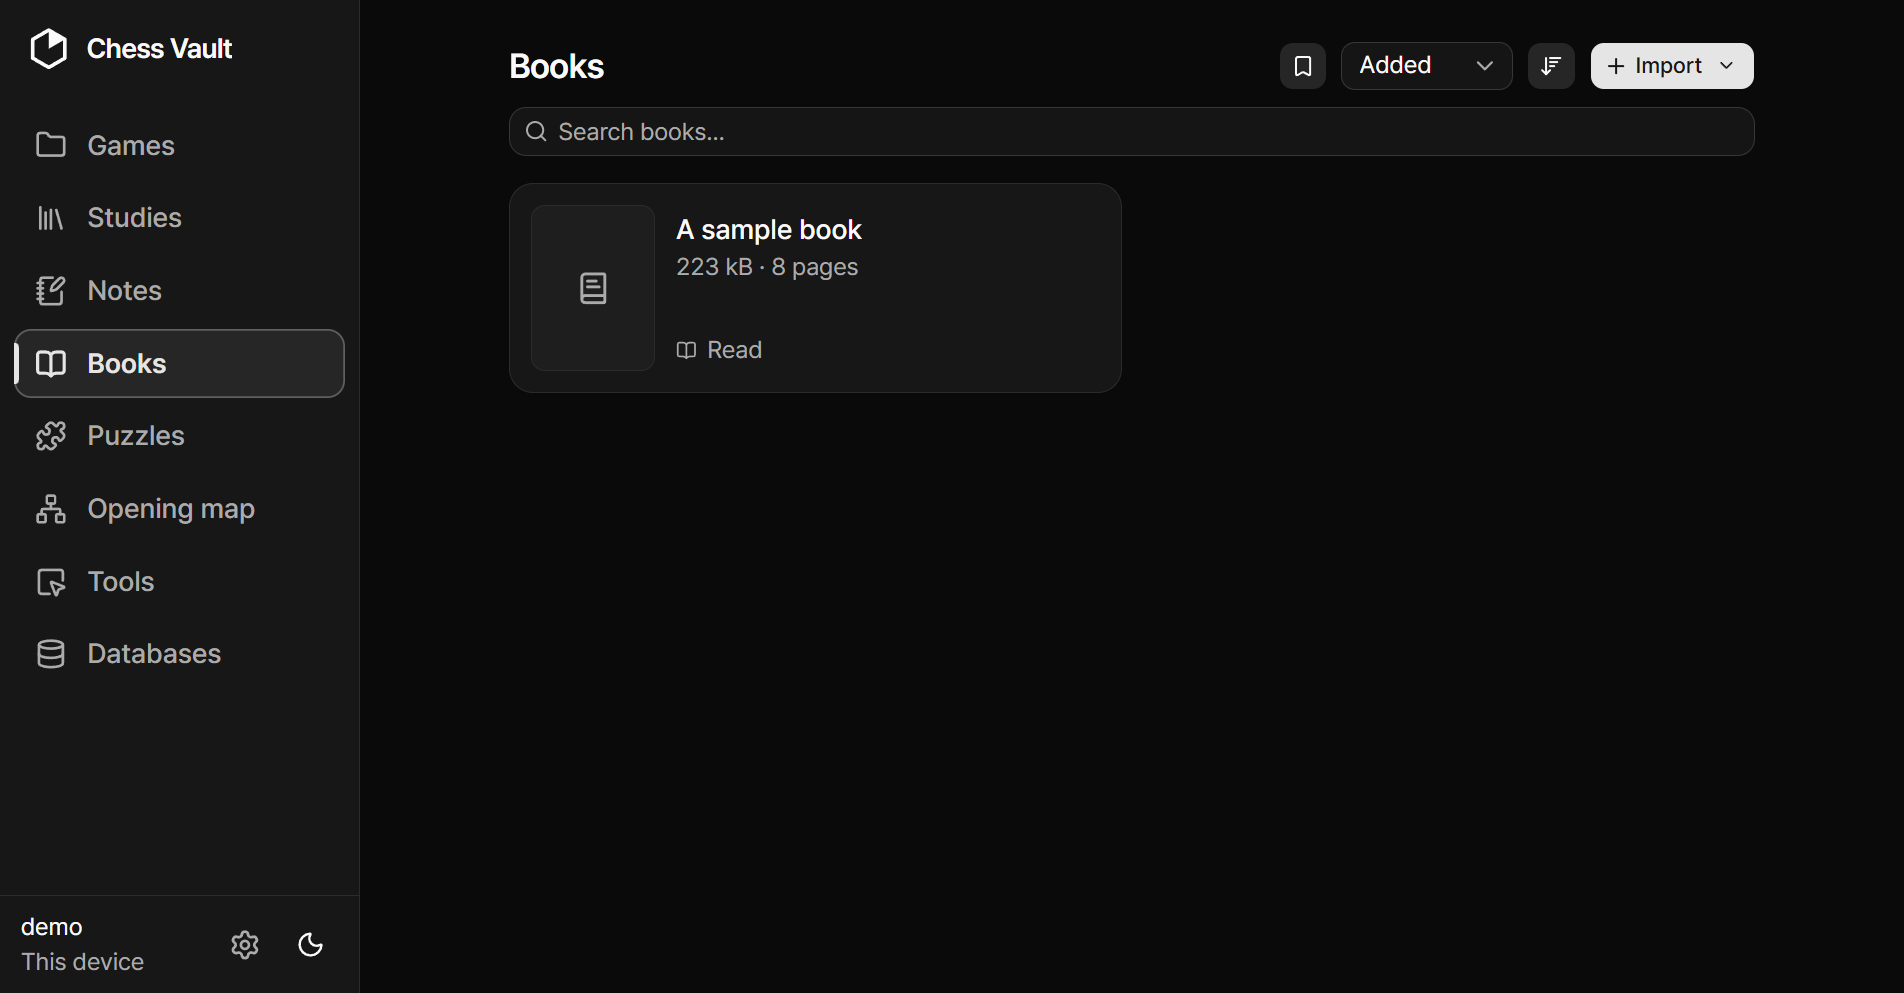
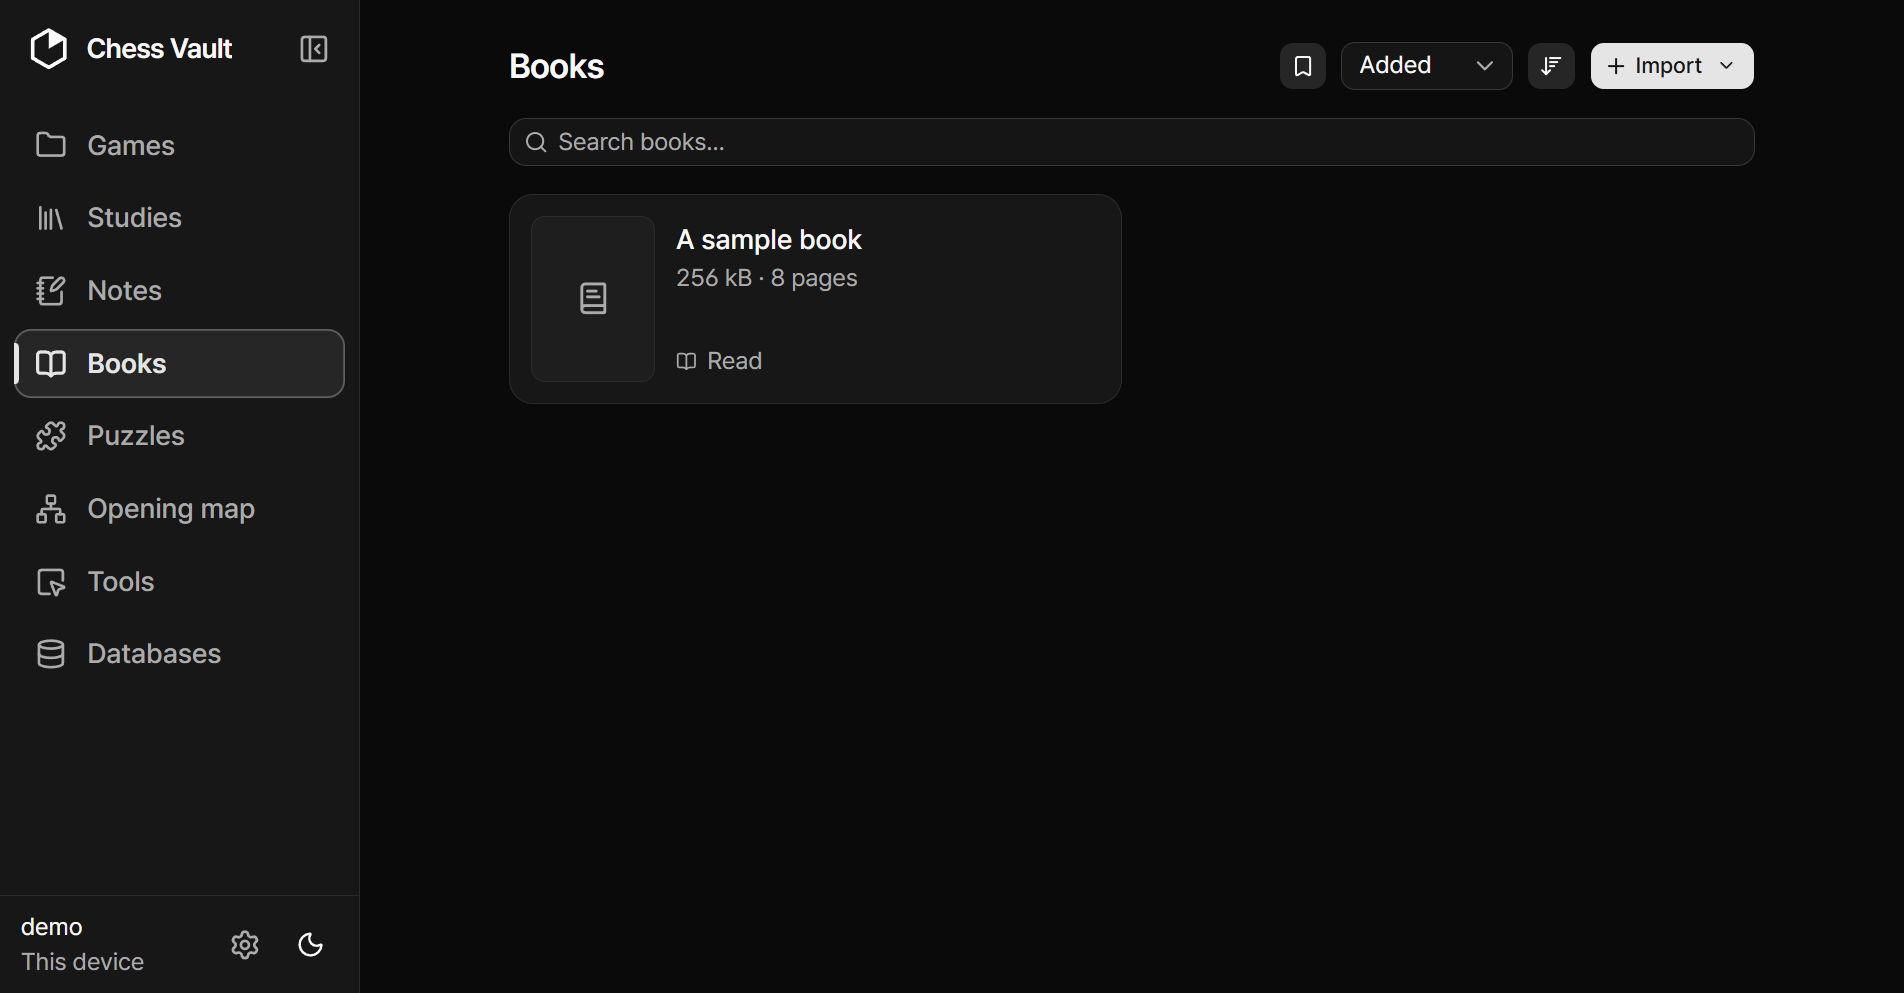
Cut 0.8.2
The update log's Unreleased heading becomes 0.8.2 with a lede that
leads with the note page, since 0.8.0 and 0.8.1 both shipped it
broken. Nothing landed unlogged: every commit since v0.8.1 has its
entry, seventeen in all. The manual already carries the title bar's
menu, the fold switch, the motif and material controls and the
reader's Contents button, and check:repo holds every quote to the
source.

Screenshots recaptured twice against one build and compared three
ways: board, books, editor, explorer and repertoire moved 3 to 5%
against a 0.00 to 0.07% run-to-run difference (the fold switch and
the shelves), the map's node shot lost 8px of height (the one gap
under every title), and games, study, workspace and the dashboard
moved 0.02 to 0.03% at 0.00 (the fold switch alone); all of those
are the fresh capture. The opening map moved 10% at an 8% noise floor
and the trainer 4% at 5%, so both keep their committed bytes. The gif
is re-recorded and shows the reader's Contents button. Contrast:
nothing below the floor over 11 routes, 4 schemes and 2 widths.

Licence inventory checked: package.json unchanged since 0.8.1, 162
packages against the row's ~160, nothing copied in.

diff --git a/docs/update-log.ko.md b/docs/update-log.ko.md
@@ -5,7 +5,17 @@
 무엇이 바뀌었는지 최신순으로 적었습니다. 커밋 장부가 아니라 기능 단위의
 기록이며, 자세한 내용은 `git log`에 있습니다.
 
-## Unreleased
+## 0.8.2
+
+노트가 다시 열립니다. 0.8.0부터 어떤 노트 페이지를 열어도 «Something
+went wrong»이 떴고 노트는 그 밑에서 저장되어 있었는데, 빌드가 편집기의
+라이브러리 하나를 편집기와 떼어 놓았기 때문입니다. 그 수정 주변으로
+데이터베이스 브라우저의 검색에 목록이 생깁니다. 고립 퀸폰부터 그리스
+선물까지 모티프 열두 가지, 이름 있는 폰 구조 스물아홉 가지, 어느 진영으로도
+물을 수 있는 기물 구성 프리셋 스물여섯 가지, 그리고 어느 데이터베이스에서든
+게임을 찾는 `opening:`입니다. 데스크톱 앱은 제목 표시줄을 직접 그리고,
+사이드바는 접히며, 휴대폰의 Games 줄과 홈과 리더가 각각 한 차례씩
+고쳐졌습니다.
 
 - **노트가 다시 열립니다.** 빌드가 편집기를 따로 묶기 시작한 뒤로 어떤
   노트를 열어도 «Something went wrong»이 떴습니다. 편집기가 로드 시점에
@@ -73,7 +83,6 @@
   마지막 손가락을 떼면 Safari가 뭐라 했든 풀립니다. 그리고 창보다 짧은
   마지막 쪽에 두고 나온 책이 레이아웃이 바뀔 때마다 그 쪽 끝으로 되돌아
   가고 쪽 번호가 멈춰 있던 일도 없습니다.
-
 - **Games의 검색 줄이 휴대폰에 맞습니다.** Games 탭의 검색 칸에 입력하는
   동안 칸이 줄 전체를 차지하고, 옆의 버튼들은 칸을 떠날 때까지
   물러납니다. 전에는 모음의 상자가 Cancel, 즐겨찾기 스위치, 필터 사이에서

diff --git a/docs/update-log.md b/docs/update-log.md
@@ -5,7 +5,17 @@
 What changed, newest first. Feature-level entries, not a commit ledger —
 `git log` has the full detail.
 
-## Unreleased
+## 0.8.2
+
+Notes open again: since 0.8.0 every note page opened to “Something went
+wrong”, the note saved underneath, because the build had split one of
+the editor's libraries away from it. Around the fix, the databases
+browser's hunt grows a library: twelve motifs from an isolated queen's
+pawn to the Greek gift, twenty-nine named pawn structures, twenty-six
+material presets that can be asked for either side, and `opening:`
+finding games on every database. The desktop app draws its own title
+bar, the sidebar folds, and the phone's Games rows, home and reader
+each get a round of fixes.
 
 - **Notes open again.** Since the build started keeping the editor in
   a chunk of its own, opening any note showed “Something went wrong”:
@@ -86,7 +96,6 @@ What changed, newest first. Feature-level entries, not a commit ledger —
   unlocks it whatever Safari said. And a book left on its last page,
   where that page is shorter than the window, no longer re-scrolls to
   its foot on every layout change with the page number stuck.
-
 - **The Games search rows fit a phone.** While you type in a Games
   tab's search field it takes the whole row, the buttons beside it
   stepping aside until you leave; before, the collection's box was
